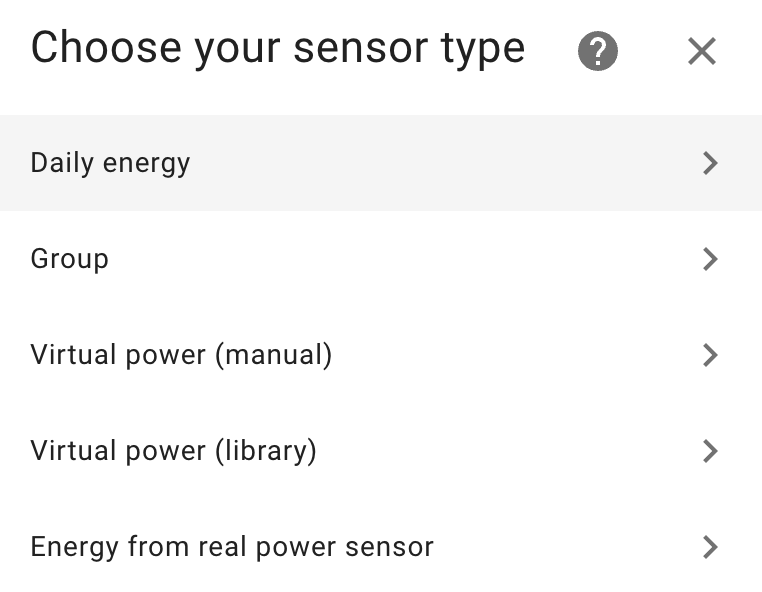
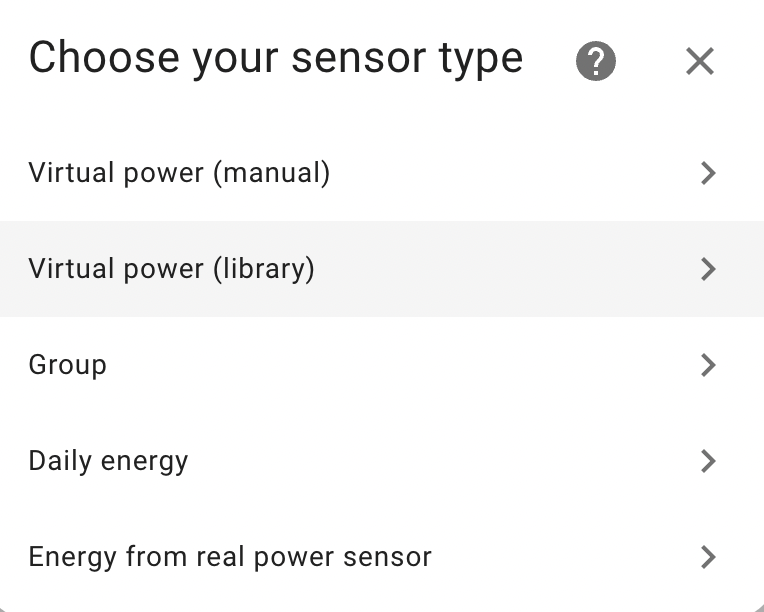
Cleanup and extend docs

diff --git a/custom_components/powercalc/config_flow.py b/custom_components/powercalc/config_flow.py
@@ -92,10 +92,10 @@ CONF_CONFIRM_AUTODISCOVERED_MODEL = "confirm_autodisovered_model"
 MENU_OPTION_LIBRARY = "menu_library"
 
 SENSOR_TYPE_MENU = {
-    SensorType.DAILY_ENERGY: "Daily energy",
-    SensorType.GROUP: "Group",
     SensorType.VIRTUAL_POWER: "Virtual power (manual)",
     MENU_OPTION_LIBRARY: "Virtual power (library)",
+    SensorType.GROUP: "Group",
+    SensorType.DAILY_ENERGY: "Daily energy",
     SensorType.REAL_POWER: "Energy from real power sensor",
 }
 

diff --git a/docs/source/conf.py b/docs/source/conf.py
@@ -13,6 +13,8 @@ epub_show_urls = "footnote"
 
 html_static_path = ["_static"]
 
+extensions = ['sphinx_tabs.tabs']
+
 # These paths are either relative to html_static_path
 # or fully qualified paths (eg. https://...)
 html_css_files = [

diff --git a/docs/source/sensor-types/index.rst b/docs/source/sensor-types/index.rst
@@ -1,0 +1,66 @@
+==============
+Set up sensors
+==============
+
+.. toctree::
+   :hidden:
+
+   virtual-power-manual
+   virtual-power-library
+   group
+   daily-energy
+   real-power-sensor
+   energy-sensor
+   utility-meter
+
+You can create new Powercalc sensor either with the GUI or YAML.
+
+In the GUI just click the button to directly add a powercalc sensor:
+
+.. image:: https://my.home-assistant.io/badges/config_flow_start.svg
+   :target: https://my.home-assistant.io/redirect/config_flow_start/?domain=powercalc
+
+When this is not working.
+
+- Go to :guilabel:`Settings` -> :guilabel:`Devices & Services`
+- Click :guilabel:`Add integration`
+- Search and click :guilabel:`Powercalc`
+
+After initializing the flow for a new configuration you'll be presented a list with choices:
+
+.. image:: /img/menu_options.png
+
+We will explain the options briefly here. To get more information go to the respective sections in the documentation.
+
+:doc:`Virtual power (manual) <virtual-power-manual>`
+=====================================================
+
+Create a virtual power sensor by manual configuration. This is the main feature of Powercalc and the possibilities are endless.
+
+:doc:`Virtual power (library) <virtual-power-library>`
+=======================================================
+
+Create a virtual power sensor by selecting from the library of power profiles. See `supported models`_.
+
+:doc:`Group <group>`
+=====================
+
+Make a group of different individual powercalc sensors. For example you can get the total usage of your kitchen this way or your full house usage. Also supports sub groups and more.
+
+:doc:`Daily fixed energy <daily-energy>`
+=========================================
+
+Use this for non smart devices which are not managed by HA, and which you known there daily kWh consumption of.
+This allows you to create an energy sensor for that which you can add to the energy dashboard
+
+:doc:`Energy from real power sensor <real-power-sensor>`
+=========================================================
+
+Use this when you have an existing power sensor in your installation, which you want to create energy sensor (and optionally utility meters) for.
+This also makes it possible to add the power sensor to a powercalc :doc:`group`.
+
+Energy sensors and utility meters
+---------------------------------
+
+When setting up power sensors using the above methods Powercalc can automatically create an :doc:`energy sensor <energy-sensor>` (kWh) and optionally :doc:`utility meters <utility-meter>` (sensors which cycle each hour, week, month).
+The can be toggled in the GUI or use the YAML options ``create_energy_sensor`` and ``create_utility_meters`` globally or per sensor.

diff --git a/docs/source/quick-start.rst b/docs/source/quick-start.rst
@@ -7,14 +7,20 @@ Installation
 
 You could either install with HACS (recommended) or manual.
 
-HACS
-----
-This integration is part of the default HACS_ repository. Just click :guilabel:`Explore and add repository` and search for :guilabel:`powercalc` to install.
+.. tabs::
 
-You *could* also use this link
+    .. tab:: HACS (recommended)
 
-.. image:: https://my.home-assistant.io/badges/hacs_repository.svg
-   :target: https://my.home-assistant.io/redirect/hacs_repository/?owner=bramstroker&repository=homeassistant-powercalc&category=integration
+        This integration is part of the default HACS_ repository. Just click :guilabel:`Explore and add repository` and search for :guilabel:`powercalc` to install.
+
+        You *could* also use this link
+
+        .. image:: https://my.home-assistant.io/badges/hacs_repository.svg
+           :target: https://my.home-assistant.io/redirect/hacs_repository/?owner=bramstroker&repository=homeassistant-powercalc&category=integration
+
+    .. tab:: Manual
+
+        Copy `custom_components/powercalc` into your Home Assistant `config` directory.
 
 **Post installation steps**
 
@@ -27,13 +33,8 @@ You *could* also use this link
 
 - Restart HA final time
 
-Manual
-------
-Copy `custom_components/powercalc` into your Home Assistant `config` directory.
-Also follow the post installation steps mentioned above.
-
-Setup power sensors
--------------------
+Set up power sensors
+--------------------
 Powercalc has a built-in library of more than 250 power profiles. Currently, this exists mostly of lights.
 These profiles have been measured and provided by users. See `supported models`_ for the listing of supported devices.
 

diff --git a/docs/source/strategies/index.rst b/docs/source/strategies/index.rst
@@ -1,0 +1,49 @@
+========================
+Virtual power strategies
+========================
+
+.. toctree::
+   :hidden:
+
+   fixed
+   linear
+   lut
+   playbook
+   wled
+   composite
+
+Powercalc provides a lot of calculation methods for your virtual power sensors. They are called strategies.
+Each strategy is suitable for another use case. They are explained below. Click on the heading to go to the specific section for more information and configuration examples.
+
+:doc:`fixed`
+=====================================================
+
+Suitable when your device has a fixed amount of power when it's turned on.
+Can also set a power value per state and use templates.
+
+:doc:`linear`
+=======================================================
+
+Use this when you want to set power on a linear scale. Useful for dimmable lights or fans which have different speeds.
+
+:doc:`lut`
+=====================
+
+Use a Lookup table to map a given light brighness and color to a power value in Watt. Most of powercalc built-in profiles use this.
+You'll need to use the measure utility to create these LUT files.
+
+:doc:`playbook`
+=========================================
+
+This can be used to record the power usage of a device over time and playback that recording.
+Could be used for example to for programs of your washing machine.
+
+:doc:`wled`
+=========================================================
+
+Used for led strips controlled by WLED firmware. WLED integration provides estimated current. Powercalc will create power sensors accordingly.
+
+:doc:`composite`
+=========================================================
+
+Combine different strategies

diff --git a/docs/source/sensor-types/virtual-power-manual.rst b/docs/source/sensor-types/virtual-power-manual.rst
@@ -1,19 +1,10 @@
+=============================
 Virtual power sensor (manual)
 =============================
 
 To manually add virtual power sensors for your devices you can use the GUI or add some configuration to `configuration.yaml`.
 
-Powercalc offers various calculation methods that can be used to establish a new virtual power sensor. Each method is suitable for specific use cases. To learn about all the configuration options, refer to the dedicated section.
-
-.. toctree::
-   :maxdepth: 1
-
-   strategies/fixed
-   strategies/linear
-   strategies/lut
-   strategies/playbook
-   strategies/wled
-   strategies/composite
+Powercalc offers various calculation strategies that can be used to establish a new virtual power sensor. Each method is suitable for specific use cases. To learn about all options please see :doc:`/strategies/index`.
 
 GUI
 ---
@@ -52,7 +43,7 @@ Most basic example:
           fixed:
             power: 20
 
-For all the possible options see the strategy sections as linked above, :doc:`configuration/sensor-configuration` and the rest of the Powercalc documentation.
+For all the possible options see the strategy sections as linked above, :doc:`/configuration/sensor-configuration` and the rest of the Powercalc documentation.
 
 .. important::
 

diff --git a/docs/source/sensor-types/group.rst b/docs/source/sensor-types/group.rst
@@ -112,7 +112,7 @@ You can use the following configuration:
 
 If you use the GUI to create the groups you can use :guilabel:`Additional power entities` and :guilabel:`Additional energy entities` options.
 
-.. image:: img/group_additional_entities.png
+.. image:: /img/group_additional_entities.png
 
 Also see :doc:`real-power-sensor`
 
@@ -138,4 +138,4 @@ Automatically include entities
 Powercalc has some options to automatically include entities in your group matching certain criteria.
 This can be useful to you don't have to manually specify each and every sensor.
 
-See :doc:`include-entities` for more information.
+See :doc:`group/include-entities` for more information.

diff --git a/docs/source/index.rst b/docs/source/index.rst
@@ -16,24 +16,28 @@ Getting Started
    :maxdepth: 1
 
    quick-start
-   setup
 
 Configuration
 ***********************
 
 .. toctree::
-   :maxdepth: 1
+   :maxdepth: 2
+   :includehidden:
+   :titlesonly:
 
-   virtual-power-manual
-   virtual-power-library
-   daily-energy
-   group
-   real-power-sensor
+   sensor-types/index
+   strategies/index
    configuration/global-configuration
    configuration/sensor-configuration
-   energy-sensor
-   utility-meter
-   naming
+   configuration/standby-power
+
+Misc
+****
+
+.. toctree::
+   :maxdepth: 1
+
+   misc/naming
 
 Troubleshooting
 ********************

diff --git a/docs/source/sensor-types/virtual-power-library.rst b/docs/source/sensor-types/virtual-power-library.rst
@@ -1,3 +1,4 @@
+==============================
 Virtual power sensor (library)
 ==============================
 
@@ -50,7 +51,7 @@ This applies for example to extensible led strips of different lengths.
 
 In the GUI flow this will be asked in the wizard as shown in screenshot below.
 
-.. image:: img/sub_profile.png
+.. image:: /img/sub_profile.png
 
 In YAML you'll need to append the sub profile to the model, separated by a slash:
 For example to select sub profile `length_9` of LIFX Z model.
